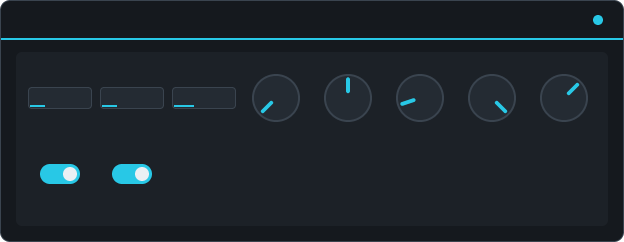
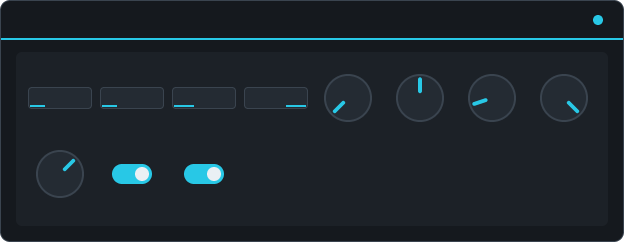
omx drive: the oversample control, bound to the instance face
omx-dsp's drive instance resolve takes the oversampling factor as its last
argument, a contract control (DRIVE_OVERSAMPLES). The declaration lists it,
appended after hfRolloff, and the binding, ports, LV2 hints, MOD GUI and
manual follow from it.

diff --git a/plugins/omx-drive/test/drive-oracle.c b/plugins/omx-drive/test/drive-oracle.c
@@ -54,70 +54,79 @@ typedef struct {
 } Block;
 
 static const Block PLAN[] = {
-    { 64, 0.0f, 0, {0.0f, 1.0f, 15005.0f, 50.0f, -20.4f, 1.0f, 0.0f, 1.0f, 0.0f, 12000.0f}, 0 },
-    { 1, 0.0f, 0, {9.0f, -1.0f, 2000.0f, 90.0f, -2.4f, 0.0f, 1.0f, 0.0f, 1.0f, 16000.0f}, 0 },
-    { 333, 0.0f, 0, {36.0f, 0.5f, 10010.0f, 10.0f, -11.4f, 0.0f, 3.0f, 1.0f, 0.0f, 0.0f}, 0 },
-    { 512, 0.0f, 0, {0.0f, 0.0f, 18002.0f, 60.0f, 0.0f, 1.0f, 0.0f, 0.0f, 1.0f, 12000.0f}, 0 },
-    { 17, 0.0f, 0, {27.0f, 0.0f, 2018.0f, 35.0f, 0.0f, 3.0f, 2.0f, 1.0f, 0.0f, 12000.0f}, 1 },
-    { 480, 0.0f, 0, {0.0f, 0.8f, 12008.0f, 100.0f, -15.0f, 0.0f, 0.0f, 0.0f, 1.0f, 0.0f}, 1 },
-    { 129, 0.0f, 0, {18.0f, -0.8f, 7013.0f, 100.0f, 12.0f, 2.0f, 2.0f, 1.0f, 0.0f, 0.0f}, 0 },
-    { 1024, 0.0f, 0, {32.4f, 0.2f, 2000.0f, 25.0f, -24.0f, 0.0f, 3.0f, 0.0f, 1.0f, 12000.0f}, 0 },
-    { 7, 0.0f, 0, {3.6f, -0.3f, 2000.0f, 100.0f, 3.0f, 2.0f, 0.0f, 1.0f, 0.0f, 16000.0f}, 0 },
-    { 2500, 0.0f, 0, {21.6f, 0.0f, 5015.0f, 0.0f, 0.0f, 3.0f, 2.0f, 0.0f, 1.0f, 0.0f}, 0 },
-    { 600, 0.0f, 0, {12.6f, 0.0f, 20000.0f, 75.0f, -6.0f, 0.0f, 1.0f, 1.0f, 0.0f, 16000.0f}, 0 },
-    { 3000, 0.0f, 0, {0.0f, -0.5f, 20.0f, 100.0f, 8.4f, 2.0f, 0.0f, 0.0f, 1.0f, 0.0f}, 0 },
-    { 0, 10.0f, 1, {0.0f, 0.0f, 2000.0f, 100.0f, 0.0f, 0.0f, 0.0f, 1.0f, 1.0f, 0.0f}, 0 },
-    { 0, 100.0f, 2, {0.0f, 0.0f, 2000.0f, 100.0f, 0.0f, 0.0f, 0.0f, 1.0f, 1.0f, 0.0f}, 0 },
-    { 0, 10.0f, 1, {0.0f, 0.0f, 2000.0f, 100.0f, 0.0f, 0.0f, 0.0f, 1.0f, 1.0f, 0.0f}, 0 },
-    { 0, 100.0f, 2, {0.0f, 0.0f, 2000.0f, 100.0f, 0.0f, 0.0f, 0.0f, 1.0f, 1.0f, 0.0f}, 0 },
-    { 0, 100.0f, 2, {27.0f, 0.5f, 15005.0f, 75.0f, 3.0f, 0.0f, 1.0f, 0.0f, 0.0f, 12000.0f}, 0 },
-    { 0, 10.0f, 1, {0.0f, 0.0f, 2000.0f, 100.0f, 0.0f, 1.0f, 0.0f, 1.0f, 1.0f, 0.0f}, 0 },
-    { 0, 100.0f, 2, {0.0f, 0.0f, 2000.0f, 100.0f, 0.0f, 1.0f, 0.0f, 1.0f, 1.0f, 0.0f}, 0 },
-    { 0, 100.0f, 2, {27.0f, 0.5f, 15005.0f, 75.0f, 3.0f, 1.0f, 1.0f, 0.0f, 0.0f, 12000.0f}, 0 },
-    { 0, 10.0f, 1, {0.0f, 0.0f, 2000.0f, 100.0f, 0.0f, 2.0f, 0.0f, 1.0f, 1.0f, 0.0f}, 0 },
-    { 0, 100.0f, 2, {0.0f, 0.0f, 2000.0f, 100.0f, 0.0f, 2.0f, 0.0f, 1.0f, 1.0f, 0.0f}, 0 },
-    { 0, 100.0f, 2, {27.0f, 0.5f, 15005.0f, 75.0f, 3.0f, 2.0f, 1.0f, 0.0f, 0.0f, 12000.0f}, 0 },
-    { 0, 10.0f, 1, {0.0f, 0.0f, 2000.0f, 100.0f, 0.0f, 3.0f, 0.0f, 1.0f, 1.0f, 0.0f}, 0 },
-    { 0, 100.0f, 2, {0.0f, 0.0f, 2000.0f, 100.0f, 0.0f, 3.0f, 0.0f, 1.0f, 1.0f, 0.0f}, 0 },
-    { 0, 100.0f, 2, {27.0f, 0.5f, 15005.0f, 75.0f, 3.0f, 3.0f, 1.0f, 0.0f, 0.0f, 12000.0f}, 0 },
-    { 0, 10.0f, 1, {0.0f, 0.0f, 2000.0f, 100.0f, 0.0f, 0.0f, 0.0f, 1.0f, 1.0f, 0.0f}, 0 },
-    { 0, 100.0f, 2, {0.0f, 0.0f, 2000.0f, 100.0f, 0.0f, 0.0f, 0.0f, 1.0f, 1.0f, 0.0f}, 0 },
-    { 0, 100.0f, 2, {27.0f, 0.5f, 15005.0f, 75.0f, 3.0f, 1.0f, 0.0f, 0.0f, 0.0f, 12000.0f}, 0 },
-    { 0, 10.0f, 1, {0.0f, 0.0f, 2000.0f, 100.0f, 0.0f, 0.0f, 1.0f, 1.0f, 1.0f, 0.0f}, 0 },
-    { 0, 100.0f, 2, {0.0f, 0.0f, 2000.0f, 100.0f, 0.0f, 0.0f, 1.0f, 1.0f, 1.0f, 0.0f}, 0 },
-    { 0, 100.0f, 2, {27.0f, 0.5f, 15005.0f, 75.0f, 3.0f, 1.0f, 1.0f, 0.0f, 0.0f, 12000.0f}, 0 },
-    { 0, 10.0f, 1, {0.0f, 0.0f, 2000.0f, 100.0f, 0.0f, 0.0f, 2.0f, 1.0f, 1.0f, 0.0f}, 0 },
-    { 0, 100.0f, 2, {0.0f, 0.0f, 2000.0f, 100.0f, 0.0f, 0.0f, 2.0f, 1.0f, 1.0f, 0.0f}, 0 },
-    { 0, 100.0f, 2, {27.0f, 0.5f, 15005.0f, 75.0f, 3.0f, 1.0f, 2.0f, 0.0f, 0.0f, 12000.0f}, 0 },
-    { 0, 10.0f, 1, {0.0f, 0.0f, 2000.0f, 100.0f, 0.0f, 0.0f, 3.0f, 1.0f, 1.0f, 0.0f}, 0 },
-    { 0, 100.0f, 2, {0.0f, 0.0f, 2000.0f, 100.0f, 0.0f, 0.0f, 3.0f, 1.0f, 1.0f, 0.0f}, 0 },
-    { 0, 100.0f, 2, {27.0f, 0.5f, 15005.0f, 75.0f, 3.0f, 1.0f, 3.0f, 0.0f, 0.0f, 12000.0f}, 0 },
-    { 0, 10.0f, 1, {0.0f, 0.0f, 2000.0f, 100.0f, 0.0f, 0.0f, 0.0f, 0.0f, 1.0f, 0.0f}, 0 },
-    { 0, 100.0f, 2, {0.0f, 0.0f, 2000.0f, 100.0f, 0.0f, 0.0f, 0.0f, 0.0f, 1.0f, 0.0f}, 0 },
-    { 0, 100.0f, 2, {27.0f, 0.5f, 15005.0f, 75.0f, 3.0f, 1.0f, 1.0f, 0.0f, 0.0f, 12000.0f}, 0 },
-    { 0, 10.0f, 1, {0.0f, 0.0f, 2000.0f, 100.0f, 0.0f, 0.0f, 0.0f, 1.0f, 1.0f, 0.0f}, 0 },
-    { 0, 100.0f, 2, {0.0f, 0.0f, 2000.0f, 100.0f, 0.0f, 0.0f, 0.0f, 1.0f, 1.0f, 0.0f}, 0 },
-    { 0, 100.0f, 2, {27.0f, 0.5f, 15005.0f, 75.0f, 3.0f, 1.0f, 1.0f, 1.0f, 0.0f, 12000.0f}, 0 },
-    { 0, 10.0f, 1, {0.0f, 0.0f, 2000.0f, 100.0f, 0.0f, 0.0f, 0.0f, 1.0f, 0.0f, 0.0f}, 0 },
-    { 0, 100.0f, 2, {0.0f, 0.0f, 2000.0f, 100.0f, 0.0f, 0.0f, 0.0f, 1.0f, 0.0f, 0.0f}, 0 },
-    { 0, 100.0f, 2, {27.0f, 0.5f, 15005.0f, 75.0f, 3.0f, 1.0f, 1.0f, 0.0f, 0.0f, 12000.0f}, 0 },
-    { 0, 10.0f, 1, {0.0f, 0.0f, 2000.0f, 100.0f, 0.0f, 0.0f, 0.0f, 1.0f, 1.0f, 0.0f}, 0 },
-    { 0, 100.0f, 2, {0.0f, 0.0f, 2000.0f, 100.0f, 0.0f, 0.0f, 0.0f, 1.0f, 1.0f, 0.0f}, 0 },
-    { 0, 100.0f, 2, {27.0f, 0.5f, 15005.0f, 75.0f, 3.0f, 1.0f, 1.0f, 0.0f, 1.0f, 12000.0f}, 0 },
-    { 0, 10.0f, 1, {0.0f, 0.0f, 2000.0f, 100.0f, 0.0f, 0.0f, 0.0f, 1.0f, 1.0f, 0.0f}, 0 },
-    { 0, 100.0f, 2, {0.0f, 0.0f, 2000.0f, 100.0f, 0.0f, 0.0f, 0.0f, 1.0f, 1.0f, 0.0f}, 0 },
-    { 0, 100.0f, 2, {27.0f, 0.5f, 15005.0f, 75.0f, 3.0f, 1.0f, 1.0f, 0.0f, 0.0f, 0.0f}, 0 },
-    { 0, 10.0f, 1, {0.0f, 0.0f, 2000.0f, 100.0f, 0.0f, 0.0f, 0.0f, 1.0f, 1.0f, 12000.0f}, 0 },
-    { 0, 100.0f, 2, {0.0f, 0.0f, 2000.0f, 100.0f, 0.0f, 0.0f, 0.0f, 1.0f, 1.0f, 12000.0f}, 0 },
-    { 0, 100.0f, 2, {27.0f, 0.5f, 15005.0f, 75.0f, 3.0f, 1.0f, 1.0f, 0.0f, 0.0f, 12000.0f}, 0 },
-    { 0, 10.0f, 1, {0.0f, 0.0f, 2000.0f, 100.0f, 0.0f, 0.0f, 0.0f, 1.0f, 1.0f, 16000.0f}, 0 },
-    { 0, 100.0f, 2, {0.0f, 0.0f, 2000.0f, 100.0f, 0.0f, 0.0f, 0.0f, 1.0f, 1.0f, 16000.0f}, 0 },
-    { 0, 100.0f, 2, {27.0f, 0.5f, 15005.0f, 75.0f, 3.0f, 1.0f, 1.0f, 0.0f, 0.0f, 16000.0f}, 0 },
+    { 64, 0.0f, 0, {0.0f, 1.0f, 15005.0f, 50.0f, -20.4f, 1.0f, 0.0f, 1.0f, 0.0f, 12000.0f, 1.0f}, 0 },
+    { 1, 0.0f, 0, {9.0f, -1.0f, 2000.0f, 90.0f, -2.4f, 0.0f, 1.0f, 0.0f, 1.0f, 16000.0f, 2.0f}, 0 },
+    { 333, 0.0f, 0, {36.0f, 0.5f, 10010.0f, 10.0f, -11.4f, 0.0f, 3.0f, 1.0f, 0.0f, 0.0f, 2.0f}, 0 },
+    { 512, 0.0f, 0, {0.0f, 0.0f, 18002.0f, 60.0f, 0.0f, 1.0f, 0.0f, 0.0f, 1.0f, 12000.0f, 4.0f}, 0 },
+    { 17, 0.0f, 0, {27.0f, 0.0f, 2018.0f, 35.0f, 0.0f, 3.0f, 2.0f, 1.0f, 0.0f, 12000.0f, 4.0f}, 1 },
+    { 480, 0.0f, 0, {0.0f, 0.8f, 12008.0f, 100.0f, -15.0f, 0.0f, 0.0f, 0.0f, 1.0f, 0.0f, 2.0f}, 1 },
+    { 129, 0.0f, 0, {18.0f, -0.8f, 7013.0f, 100.0f, 12.0f, 2.0f, 2.0f, 1.0f, 0.0f, 0.0f, 4.0f}, 0 },
+    { 1024, 0.0f, 0, {32.4f, 0.2f, 2000.0f, 25.0f, -24.0f, 0.0f, 3.0f, 0.0f, 1.0f, 12000.0f, 1.0f}, 0 },
+    { 7, 0.0f, 0, {3.6f, -0.3f, 2000.0f, 100.0f, 3.0f, 2.0f, 0.0f, 1.0f, 0.0f, 16000.0f, 4.0f}, 0 },
+    { 2500, 0.0f, 0, {21.6f, 0.0f, 5015.0f, 0.0f, 0.0f, 3.0f, 2.0f, 0.0f, 1.0f, 0.0f, 4.0f}, 0 },
+    { 600, 0.0f, 0, {12.6f, 0.0f, 20000.0f, 75.0f, -6.0f, 0.0f, 1.0f, 1.0f, 0.0f, 16000.0f, 2.0f}, 0 },
+    { 3000, 0.0f, 0, {0.0f, -0.5f, 20.0f, 100.0f, 8.4f, 2.0f, 0.0f, 0.0f, 1.0f, 0.0f, 4.0f}, 0 },
+    { 0, 10.0f, 1, {0.0f, 0.0f, 2000.0f, 100.0f, 0.0f, 0.0f, 0.0f, 1.0f, 1.0f, 0.0f, 4.0f}, 0 },
+    { 0, 100.0f, 2, {0.0f, 0.0f, 2000.0f, 100.0f, 0.0f, 0.0f, 0.0f, 1.0f, 1.0f, 0.0f, 4.0f}, 0 },
+    { 0, 10.0f, 1, {0.0f, 0.0f, 2000.0f, 100.0f, 0.0f, 0.0f, 0.0f, 1.0f, 1.0f, 0.0f, 4.0f}, 0 },
+    { 0, 100.0f, 2, {0.0f, 0.0f, 2000.0f, 100.0f, 0.0f, 0.0f, 0.0f, 1.0f, 1.0f, 0.0f, 4.0f}, 0 },
+    { 0, 100.0f, 2, {27.0f, 0.5f, 15005.0f, 75.0f, 3.0f, 0.0f, 1.0f, 0.0f, 0.0f, 12000.0f, 1.0f}, 0 },
+    { 0, 10.0f, 1, {0.0f, 0.0f, 2000.0f, 100.0f, 0.0f, 1.0f, 0.0f, 1.0f, 1.0f, 0.0f, 4.0f}, 0 },
+    { 0, 100.0f, 2, {0.0f, 0.0f, 2000.0f, 100.0f, 0.0f, 1.0f, 0.0f, 1.0f, 1.0f, 0.0f, 4.0f}, 0 },
+    { 0, 100.0f, 2, {27.0f, 0.5f, 15005.0f, 75.0f, 3.0f, 1.0f, 1.0f, 0.0f, 0.0f, 12000.0f, 1.0f}, 0 },
+    { 0, 10.0f, 1, {0.0f, 0.0f, 2000.0f, 100.0f, 0.0f, 2.0f, 0.0f, 1.0f, 1.0f, 0.0f, 4.0f}, 0 },
+    { 0, 100.0f, 2, {0.0f, 0.0f, 2000.0f, 100.0f, 0.0f, 2.0f, 0.0f, 1.0f, 1.0f, 0.0f, 4.0f}, 0 },
+    { 0, 100.0f, 2, {27.0f, 0.5f, 15005.0f, 75.0f, 3.0f, 2.0f, 1.0f, 0.0f, 0.0f, 12000.0f, 1.0f}, 0 },
+    { 0, 10.0f, 1, {0.0f, 0.0f, 2000.0f, 100.0f, 0.0f, 3.0f, 0.0f, 1.0f, 1.0f, 0.0f, 4.0f}, 0 },
+    { 0, 100.0f, 2, {0.0f, 0.0f, 2000.0f, 100.0f, 0.0f, 3.0f, 0.0f, 1.0f, 1.0f, 0.0f, 4.0f}, 0 },
+    { 0, 100.0f, 2, {27.0f, 0.5f, 15005.0f, 75.0f, 3.0f, 3.0f, 1.0f, 0.0f, 0.0f, 12000.0f, 1.0f}, 0 },
+    { 0, 10.0f, 1, {0.0f, 0.0f, 2000.0f, 100.0f, 0.0f, 0.0f, 0.0f, 1.0f, 1.0f, 0.0f, 4.0f}, 0 },
+    { 0, 100.0f, 2, {0.0f, 0.0f, 2000.0f, 100.0f, 0.0f, 0.0f, 0.0f, 1.0f, 1.0f, 0.0f, 4.0f}, 0 },
+    { 0, 100.0f, 2, {27.0f, 0.5f, 15005.0f, 75.0f, 3.0f, 1.0f, 0.0f, 0.0f, 0.0f, 12000.0f, 1.0f}, 0 },
+    { 0, 10.0f, 1, {0.0f, 0.0f, 2000.0f, 100.0f, 0.0f, 0.0f, 1.0f, 1.0f, 1.0f, 0.0f, 4.0f}, 0 },
+    { 0, 100.0f, 2, {0.0f, 0.0f, 2000.0f, 100.0f, 0.0f, 0.0f, 1.0f, 1.0f, 1.0f, 0.0f, 4.0f}, 0 },
+    { 0, 100.0f, 2, {27.0f, 0.5f, 15005.0f, 75.0f, 3.0f, 1.0f, 1.0f, 0.0f, 0.0f, 12000.0f, 1.0f}, 0 },
+    { 0, 10.0f, 1, {0.0f, 0.0f, 2000.0f, 100.0f, 0.0f, 0.0f, 2.0f, 1.0f, 1.0f, 0.0f, 4.0f}, 0 },
+    { 0, 100.0f, 2, {0.0f, 0.0f, 2000.0f, 100.0f, 0.0f, 0.0f, 2.0f, 1.0f, 1.0f, 0.0f, 4.0f}, 0 },
+    { 0, 100.0f, 2, {27.0f, 0.5f, 15005.0f, 75.0f, 3.0f, 1.0f, 2.0f, 0.0f, 0.0f, 12000.0f, 1.0f}, 0 },
+    { 0, 10.0f, 1, {0.0f, 0.0f, 2000.0f, 100.0f, 0.0f, 0.0f, 3.0f, 1.0f, 1.0f, 0.0f, 4.0f}, 0 },
+    { 0, 100.0f, 2, {0.0f, 0.0f, 2000.0f, 100.0f, 0.0f, 0.0f, 3.0f, 1.0f, 1.0f, 0.0f, 4.0f}, 0 },
+    { 0, 100.0f, 2, {27.0f, 0.5f, 15005.0f, 75.0f, 3.0f, 1.0f, 3.0f, 0.0f, 0.0f, 12000.0f, 1.0f}, 0 },
+    { 0, 10.0f, 1, {0.0f, 0.0f, 2000.0f, 100.0f, 0.0f, 0.0f, 0.0f, 0.0f, 1.0f, 0.0f, 4.0f}, 0 },
+    { 0, 100.0f, 2, {0.0f, 0.0f, 2000.0f, 100.0f, 0.0f, 0.0f, 0.0f, 0.0f, 1.0f, 0.0f, 4.0f}, 0 },
+    { 0, 100.0f, 2, {27.0f, 0.5f, 15005.0f, 75.0f, 3.0f, 1.0f, 1.0f, 0.0f, 0.0f, 12000.0f, 1.0f}, 0 },
+    { 0, 10.0f, 1, {0.0f, 0.0f, 2000.0f, 100.0f, 0.0f, 0.0f, 0.0f, 1.0f, 1.0f, 0.0f, 4.0f}, 0 },
+    { 0, 100.0f, 2, {0.0f, 0.0f, 2000.0f, 100.0f, 0.0f, 0.0f, 0.0f, 1.0f, 1.0f, 0.0f, 4.0f}, 0 },
+    { 0, 100.0f, 2, {27.0f, 0.5f, 15005.0f, 75.0f, 3.0f, 1.0f, 1.0f, 1.0f, 0.0f, 12000.0f, 1.0f}, 0 },
+    { 0, 10.0f, 1, {0.0f, 0.0f, 2000.0f, 100.0f, 0.0f, 0.0f, 0.0f, 1.0f, 0.0f, 0.0f, 4.0f}, 0 },
+    { 0, 100.0f, 2, {0.0f, 0.0f, 2000.0f, 100.0f, 0.0f, 0.0f, 0.0f, 1.0f, 0.0f, 0.0f, 4.0f}, 0 },
+    { 0, 100.0f, 2, {27.0f, 0.5f, 15005.0f, 75.0f, 3.0f, 1.0f, 1.0f, 0.0f, 0.0f, 12000.0f, 1.0f}, 0 },
+    { 0, 10.0f, 1, {0.0f, 0.0f, 2000.0f, 100.0f, 0.0f, 0.0f, 0.0f, 1.0f, 1.0f, 0.0f, 4.0f}, 0 },
+    { 0, 100.0f, 2, {0.0f, 0.0f, 2000.0f, 100.0f, 0.0f, 0.0f, 0.0f, 1.0f, 1.0f, 0.0f, 4.0f}, 0 },
+    { 0, 100.0f, 2, {27.0f, 0.5f, 15005.0f, 75.0f, 3.0f, 1.0f, 1.0f, 0.0f, 1.0f, 12000.0f, 1.0f}, 0 },
+    { 0, 10.0f, 1, {0.0f, 0.0f, 2000.0f, 100.0f, 0.0f, 0.0f, 0.0f, 1.0f, 1.0f, 0.0f, 4.0f}, 0 },
+    { 0, 100.0f, 2, {0.0f, 0.0f, 2000.0f, 100.0f, 0.0f, 0.0f, 0.0f, 1.0f, 1.0f, 0.0f, 4.0f}, 0 },
+    { 0, 100.0f, 2, {27.0f, 0.5f, 15005.0f, 75.0f, 3.0f, 1.0f, 1.0f, 0.0f, 0.0f, 0.0f, 1.0f}, 0 },
+    { 0, 10.0f, 1, {0.0f, 0.0f, 2000.0f, 100.0f, 0.0f, 0.0f, 0.0f, 1.0f, 1.0f, 12000.0f, 4.0f}, 0 },
+    { 0, 100.0f, 2, {0.0f, 0.0f, 2000.0f, 100.0f, 0.0f, 0.0f, 0.0f, 1.0f, 1.0f, 12000.0f, 4.0f}, 0 },
+    { 0, 100.0f, 2, {27.0f, 0.5f, 15005.0f, 75.0f, 3.0f, 1.0f, 1.0f, 0.0f, 0.0f, 12000.0f, 1.0f}, 0 },
+    { 0, 10.0f, 1, {0.0f, 0.0f, 2000.0f, 100.0f, 0.0f, 0.0f, 0.0f, 1.0f, 1.0f, 16000.0f, 4.0f}, 0 },
+    { 0, 100.0f, 2, {0.0f, 0.0f, 2000.0f, 100.0f, 0.0f, 0.0f, 0.0f, 1.0f, 1.0f, 16000.0f, 4.0f}, 0 },
+    { 0, 100.0f, 2, {27.0f, 0.5f, 15005.0f, 75.0f, 3.0f, 1.0f, 1.0f, 0.0f, 0.0f, 16000.0f, 1.0f}, 0 },
+    { 0, 10.0f, 1, {0.0f, 0.0f, 2000.0f, 100.0f, 0.0f, 0.0f, 0.0f, 1.0f, 1.0f, 0.0f, 1.0f}, 0 },
+    { 0, 100.0f, 2, {0.0f, 0.0f, 2000.0f, 100.0f, 0.0f, 0.0f, 0.0f, 1.0f, 1.0f, 0.0f, 1.0f}, 0 },
+    { 0, 100.0f, 2, {27.0f, 0.5f, 15005.0f, 75.0f, 3.0f, 1.0f, 1.0f, 0.0f, 0.0f, 12000.0f, 1.0f}, 0 },
+    { 0, 10.0f, 1, {0.0f, 0.0f, 2000.0f, 100.0f, 0.0f, 0.0f, 0.0f, 1.0f, 1.0f, 0.0f, 2.0f}, 0 },
+    { 0, 100.0f, 2, {0.0f, 0.0f, 2000.0f, 100.0f, 0.0f, 0.0f, 0.0f, 1.0f, 1.0f, 0.0f, 2.0f}, 0 },
+    { 0, 100.0f, 2, {27.0f, 0.5f, 15005.0f, 75.0f, 3.0f, 1.0f, 1.0f, 0.0f, 0.0f, 12000.0f, 2.0f}, 0 },
+    { 0, 10.0f, 1, {0.0f, 0.0f, 2000.0f, 100.0f, 0.0f, 0.0f, 0.0f, 1.0f, 1.0f, 0.0f, 4.0f}, 0 },
+    { 0, 100.0f, 2, {0.0f, 0.0f, 2000.0f, 100.0f, 0.0f, 0.0f, 0.0f, 1.0f, 1.0f, 0.0f, 4.0f}, 0 },
+    { 0, 100.0f, 2, {27.0f, 0.5f, 15005.0f, 75.0f, 3.0f, 1.0f, 1.0f, 0.0f, 0.0f, 12000.0f, 4.0f}, 0 },
 };
 #define NBLOCKS (sizeof PLAN / sizeof PLAN[0])
 
 /* One step of each parameter: what the sabotage arm moves it by. */
-static const float STEP[NP] = { 0.36f, 0.02f, 1.0f, 1.0f, 0.36f, 1.0f, 1.0f, 1.0f, 1.0f, 1.0f };
+static const float STEP[NP] = { 0.36f, 0.02f, 1.0f, 1.0f, 0.36f, 1.0f, 1.0f, 1.0f, 1.0f, 1.0f, 1.0f };
 
 static int failures;
 
@@ -206,7 +215,7 @@ static void reference(double sr, int off, const float *key, const float *il, con
     values_of(k, off, values);
     const uint32_t frames = frames_of(k, sr);
     for (uint32_t r = 0; r < STRETCH; r++) {
-      omx_drive_instance_resolve(&inst, k->bypass, values[OMX_DRIVE_PARAM_AMOUNT], values[OMX_DRIVE_PARAM_CHARACTER], values[OMX_DRIVE_PARAM_BAND_FREQ], values[OMX_DRIVE_PARAM_MIX], values[OMX_DRIVE_PARAM_TRIM], (int)lrintf(values[OMX_DRIVE_PARAM_CURVE]), (int)lrintf(values[OMX_DRIVE_PARAM_BAND]), (int)lrintf(values[OMX_DRIVE_PARAM_AUTO_GAIN]), (int)lrintf(values[OMX_DRIVE_PARAM_STEREO_LINK]), (int)lrintf(values[OMX_DRIVE_PARAM_HF_ROLLOFF]));
+      omx_drive_instance_resolve(&inst, k->bypass, values[OMX_DRIVE_PARAM_AMOUNT], values[OMX_DRIVE_PARAM_CHARACTER], values[OMX_DRIVE_PARAM_BAND_FREQ], values[OMX_DRIVE_PARAM_MIX], values[OMX_DRIVE_PARAM_TRIM], (int)lrintf(values[OMX_DRIVE_PARAM_CURVE]), (int)lrintf(values[OMX_DRIVE_PARAM_BAND]), (int)lrintf(values[OMX_DRIVE_PARAM_AUTO_GAIN]), (int)lrintf(values[OMX_DRIVE_PARAM_STEREO_LINK]), (int)lrintf(values[OMX_DRIVE_PARAM_HF_ROLLOFF]), (int)lrintf(values[OMX_DRIVE_PARAM_OVERSAMPLE]));
 #if KEYED
       omx_drive_instance_run(&inst, key ? key + at : NULL, il + at, ir + at, ol + at, orr + at, frames);
 #else

diff --git a/plugins/omx-drive/omx_drive_core.h b/plugins/omx-drive/omx_drive_core.h
@@ -47,7 +47,8 @@ static inline void omx_drive_core_resolve(OmxDriveCore *c, const float *values, 
                                   /* band */ (int)lrintf(values[OMX_DRIVE_PARAM_BAND]),
                                   /* auto_gain */ (int)lrintf(values[OMX_DRIVE_PARAM_AUTO_GAIN]),
                                   /* stereo_link */ (int)lrintf(values[OMX_DRIVE_PARAM_STEREO_LINK]),
-                                  /* hf_rolloff */ (int)lrintf(values[OMX_DRIVE_PARAM_HF_ROLLOFF]));
+                                  /* hf_rolloff */ (int)lrintf(values[OMX_DRIVE_PARAM_HF_ROLLOFF]),
+                                  /* oversample */ (int)lrintf(values[OMX_DRIVE_PARAM_OVERSAMPLE]));
 }
 
 /** The latency the kernel adds, in samples. */
